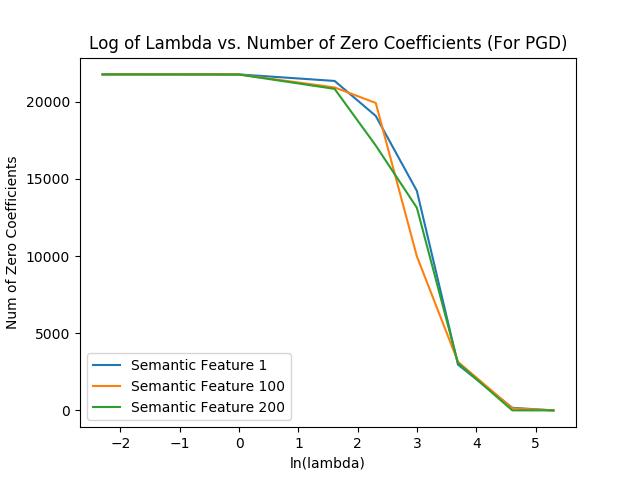
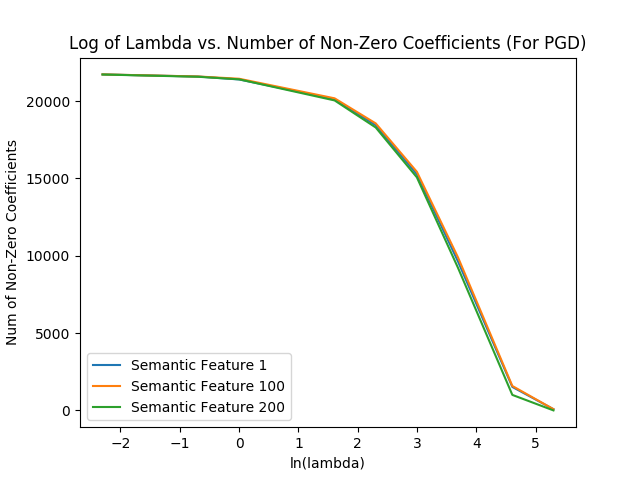
Fixed error on graphs

diff --git a/fmri_solver.py b/fmri_solver.py
@@ -391,9 +391,9 @@ def plot_num_zero(data_map, method):
         log_lambda, data = zip(*li)
         plt.plot(log_lambda, data, label="Semantic Feature " + str(key + 1))
     plt.xlabel("ln(lambda)")
-    plt.ylabel("Num of Zero Coefficients")
+    plt.ylabel("Num of Non-Zero Coefficients")
     plt.legend()
-    plt.title("Log of Lambda vs. Number of Zero Coefficients (For " + method + ")")
+    plt.title("Log of Lambda vs. Number of Non-Zero Coefficients (For " + method + ")")
     plt.savefig("numNonZero_" + method + ".png")
     plt.close()
 
